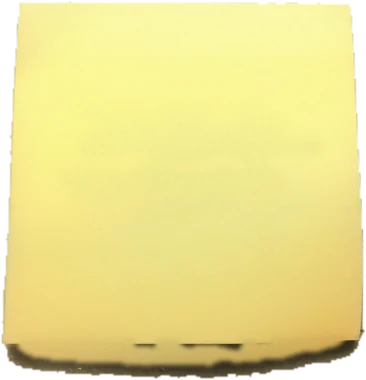
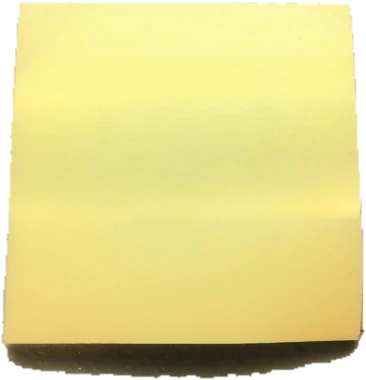
Gateway: rebuild the blank sheets so they match the photographed pair
The first pass wrecked the contact shadow. Diffing the reconstruction against
the source showed 25.7% of the bottom band changed with a max delta of 135:
the shadow strip is "thin and dark" to a 31px median, so the ink mask flagged
it and smoothed it into a broken dashed edge. That, not tone, is what made the
three read as drawn next to the two real ones.

Two further approaches failed before the right one. Masking individual strokes
cannot work: under a thick stroke the median is itself dragged dark, so the
stroke's core reads as clean paper and survives as a ghost. Detecting ink
against a fitted polynomial instead runs away, because a degree-4 surface
cannot track the paper's mottling, so clean paper keeps joining the mask --
it converged at 17% of the frame.

The sheet has 140 rows of clean paper directly below the writing, so that real
paper is now transplanted over it and re-based onto the destination's tone via
a model fitted only to clean rows. No ink detection at all, so nothing can
ghost. Both feather seams sit outside the written rows; placed inside, the
blend pulls the ink back in (rows 110 and 200 kept a 44 and 27 spread).

Row geometry is measured, not guessed: clean 10-105, writing 108-202, clean
207-347, contact shadow 348+.

Result is byte-identical on re-run and asserts both invariants -- max stroke
spread 6.5 (clean paper is 2-5) and zero change outside rows 88-222, so the
edges and shadow are the original sheet's own pixels. Paper now reads #F0EC91
[…]

Changed region(s): [[0.0301, 0.8974, 0.9617, 0.9842], [0.9617, 0.5211, 0.9918, 0.55]]

diff --git a/tools/blank-sticky-note.py b/tools/blank-sticky-note.py
@@ -1,0 +1,151 @@
+#!/usr/bin/env python3
+"""Regenerate the blank gateway sticky notes from Durrell's photographed sheet.
+
+The gateway shows five notes. Two were photographed already lettered
+(note-dlamar, note-lamarcy); the other three need the same sheet with nothing
+written on it, so a header or logo can be composited on top.
+
+Rather than re-cutting the 4032px original, this strips the lettering off
+note-dlamar.webp, which keeps the paper, torn edge and contact shadow
+byte-identical to the notes it sits beside.
+
+Approach, and why the obvious ones fail:
+
+  * A median filter leaves ghosting. The signature strokes are wider than any
+    radius that still preserves the note's edges.
+  * Masking individual strokes fails twice over. The contact shadow is also
+    "thin and dark" to a 31px median, so it gets flagged as ink and smoothed
+    into a broken dashed edge; and under a thick stroke the median is itself
+    dragged dark, so the stroke's core reads as clean paper and survives.
+  * Detecting ink against a fitted polynomial instead runs away: a degree-4
+    surface cannot track the paper's local mottling, so clean paper keeps
+    joining the mask (it converged at 17% of the frame).
+
+What works is not detecting ink at all. The sheet has 140 rows of clean paper
+directly below the writing, so that real paper is transplanted over it and
+re-based onto the destination's tone through a smooth model fitted only to
+clean rows:
+
+    patch = donor - model(donor_rows) + model(dest_rows)
+
+Both feather seams are placed outside the written rows, or the blend pulls the
+ink back in at the band edges.
+
+Row geometry is measured, not assumed -- print_profile() shows it.
+"""
+import os
+import numpy as np
+from PIL import Image, ImageEnhance, ImageOps
+
+HERE = os.path.dirname(os.path.abspath(__file__))
+GATEWAY = os.path.join(HERE, '..', 'web', 'public', 'gateway')
+SRC = os.path.join(GATEWAY, 'note-dlamar.webp')
+
+# Measured off the source sheet (366x380):
+#   rows  10-105  clean paper
+#   rows 108-202  handwriting (luminance min drops to 54)
+#   rows 207-347  clean paper
+#   rows 348+     contact shadow
+WY0, WY1 = 88, 222     # replaced band; feathers (88-104, 206-222) miss the ink
+SY0      = 207         # donor: clean paper below the writing
+FEATHER  = 16
+CLEAN    = ((10, 105), (212, 345))
+
+
+def print_profile(path=SRC):
+    """Row luminance profile: how the constants above were established."""
+    im = Image.open(path).convert('RGBA')
+    L = np.asarray(im.convert('L')).astype(float)
+    print(' row   mean    min   (interior columns 60-310)')
+    for y in range(0, im.height, 10):
+        row = L[y, 60:310]
+        print(f'{y:4d}  {row.mean():6.1f}  {row.min():5.0f}')
+
+
+def _model(rgb, alpha, h, w):
+    """Degree-4 paper surface fitted to clean rows only -- never to the writing."""
+    clean = np.zeros((h, w), bool)
+    for y0, y1 in CLEAN:
+        clean[y0:y1] = True
+    clean &= (alpha > 200)
+
+    gy, gx = np.mgrid[0:h, 0:w]
+    X = (gx / w - .5).astype(np.float32)
+    Y = (gy / h - .5).astype(np.float32)
+    terms = [np.ones_like(X)]
+    for i in range(1, 5):
+        for j in range(i + 1):
+            terms.append((X ** (i - j)) * (Y ** j))
+    A = np.stack([t.ravel() for t in terms], axis=1)
+
+    out = np.zeros_like(rgb)
+    pm = clean.ravel()
+    for c in range(3):
+        coef, *_ = np.linalg.lstsq(A[pm], rgb[..., c].ravel()[pm], rcond=None)
+        out[..., c] = (A @ coef).reshape(h, w)
+    return out
+
+
+def blank_sheet(path=SRC):
+    im = Image.open(path).convert('RGBA')
+    w, h = im.size
+    arr = np.asarray(im).astype(np.float32)
+    rgb, alpha = arr[..., :3].copy(), arr[..., 3]
+
+    bh = WY1 - WY0
+    assert SY0 + bh <= 345, 'donor would run into the contact shadow'
+
+    model = _model(rgb, alpha, h, w)
+    patch = rgb[SY0:SY0 + bh] - model[SY0:SY0 + bh] + model[WY0:WY1]
+
+    wgt = np.ones(bh, np.float32)
+    wgt[:FEATHER] = np.linspace(0, 1, FEATHER)
+    wgt[-FEATHER:] = np.linspace(1, 0, FEATHER)
+    wgt = wgt[:, None, None]
+
+    out = rgb.copy()
+    out[WY0:WY1] = rgb[WY0:WY1] * (1 - wgt) + patch * wgt
+    out = np.clip(out, 0, 255)
+
+    verify(rgb, out, alpha)
+    return Image.fromarray(np.dstack([out, alpha]).astype(np.uint8))
+
+
+def verify(rgb, out, alpha):
+    """Two invariants: no ink left, and nothing outside the band was touched."""
+    L = .2126 * out[..., 0] + .7152 * out[..., 1] + .0722 * out[..., 2]
+    worst = max(r.mean() - r.min() for r in (L[y, 60:310] for y in range(85, 230)))
+    assert worst < 12, f'ink still present in the replaced band (spread {worst:.1f})'
+
+    d = np.abs(rgb - out).mean(axis=2)
+    untouched = np.ones(d.shape, bool)
+    untouched[WY0:WY1] = False
+    assert d[untouched].max() == 0, 'pixels outside the replaced band changed'
+    print(f'  verified: max stroke spread {worst:.1f}, '
+          f'{d[untouched].max():.0f} change outside rows {WY0}-{WY1}')
+
+
+def main():
+    sheet = blank_sheet()
+
+    def save(img, name):
+        p = os.path.join(GATEWAY, name)
+        img.save(p, 'WEBP', quality=92, method=6)
+        print(f'  {name:22} {img.size}  {os.path.getsize(p)} bytes')
+
+    # Three sheets off one pad, so the row is not one image repeated.
+    save(sheet, 'note-blank-a.webp')
+    save(ImageOps.mirror(sheet), 'note-blank-b.webp')
+
+    r, g, b, a = sheet.split()
+    c = Image.merge('RGB', (r, g, b))
+    c = ImageEnhance.Brightness(c).enhance(0.975)
+    c = ImageEnhance.Color(c).enhance(1.05)
+    c.putalpha(a)
+    # Deeper in tone, so it carries the logo rather than .hand text -- at
+    # 4.45:1 worst case it would not clear AA for the yellow/green ink.
+    save(c, 'note-blank-c.webp')
+
+
+if __name__ == '__main__':
+    main()
